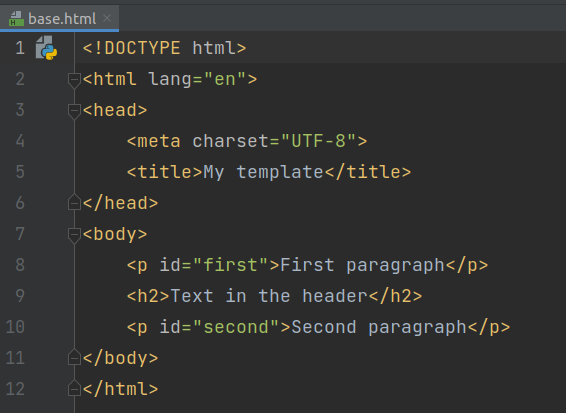
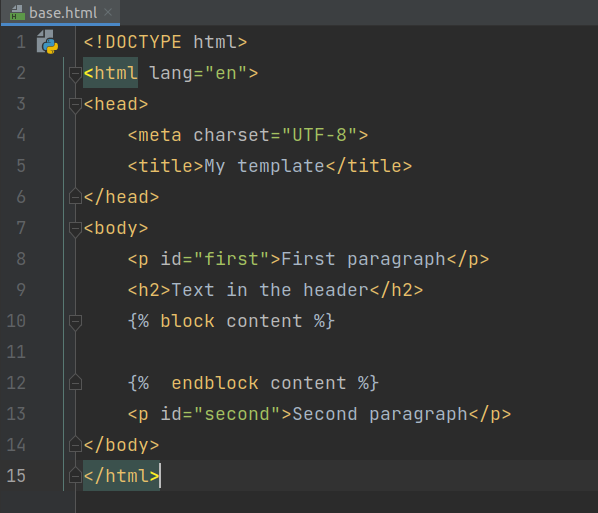
Solutions for exercise #3 - views and templating in Django

diff --git a/django-framework-exercises/views-and-templating/src/README.md b/django-framework-exercises/views-and-templating/src/README.md
@@ -1,46 +1,70 @@
 # Views and templating in Django  
 
 ## Tasks
-1. So far we have created virtual environment inside 'django-exercise' folder and we have project named 'mysite' with app named 'myapp'. App handles two urls (both in  app's ```urls.py``` file ), and each url allows user for calling specific view (from ```views.py``` file). Both views return simple response object (HttpRespons or JsonResponse) with hardcoded values.  
-   **Don't forget to activate you virtualenv!**
+1. So far we have created virtual environment inside 'django-exercise' folder and we have project named 'mysite' with app named 'myapp'.  
+*  App handles two urls (both in  app's ```urls.py``` file ), and each url allows user for calling specific view (from ```views.py``` file).  
+*  Both views return simple response object (HttpRespons or JsonResponse) with hardcoded values.  
+
+*  **Don't forget to activate you virtualenv!**  
 
 2. Create app-level template ```base.html``` in ```myapp/templates/myapp/``` directory.  
-You can use elements from [ready-to-use](https://startbootstrap.com/template/bare)  templates or just create HTML file with [basic](https://developer.mozilla.org/en-US/docs/Learn/HTML/Introduction_to_HTML/Document_and_website_structure) structure.   
-For now use only HTML. Add some paragraphs  and headers to ```body``` section, for example:  
+*  You can use elements from [ready-to-use](https://startbootstrap.com/template/bare)  templates or just create HTML file with [basic](https://developer.mozilla.org/en-US/docs/Learn/HTML/Introduction_to_HTML/Document_and_website_structure) structure.   
+*  For now use only HTML. Add some paragraphs  and headers to ```body``` section and empty [block](https://docs.djangoproject.com/en/3.2/ref/templates/builtins/#block) for overriding by child templates (name this block 'content'):  
 
    ![ex3-1](../../../django-framework-exercises/screenshots/ex3-1.png)  
 CSS and JavaScript files will be added later. 
-- at this moment structure of folders and files in folder 'exercises-django' should look as follows:  
+* at this moment structure of folders and files in folder 'exercises-django' should look as follows:  
 ![ex3-2](../../../django-framework-exercises/screenshots/ex3-2.png)
 
-3. Create next app-level template ```about.html``` in the same ```myapp/templates/myapp/``` directory by extending ```base.html``` template.  
-Hint: use [extends](https://docs.djangoproject.com/en/3.2/ref/templates/builtins/#extends) template tag:
+3. Create next app-level template ```about.html``` in the same ```myapp/templates/myapp/``` directory. Use template  extending of ```base.html``` template. Add few HTML tags inside 'content' block.  
+Hint: use [extends](https://docs.djangoproject.com/en/3.2/ref/templates/builtins/#extends) template tag.  
+
+   ![ex3-3](../../../django-framework-exercises/screenshots/ex3-3.png)
 
 4. In ```views.py``` file of your ```myapp``` app:  
 * add another  function based view (named for example ```base_view```), that uses [render](https://docs.djangoproject.com/en/3.2/topics/http/shortcuts/#render) function with previously created template ```base.html```,
-* add class based view (named for example ```about_view```), that uses previously created template```about.html```: 
+* add class based view (named for example ```AboutView```), that uses previously created template ```about.html```,
+*  Hint: you can use [TemplateView](https://docs.djangoproject.com/en/3.2/topics/class-based-views/).
 
-   ![ex2-3](../../../django-framework-exercises/screenshots/ex2-3.png)
+   ![ex3-4](../../../django-framework-exercises/screenshots/ex3-4.png)
 
-5. Update your app-level ```urls.py```. Import created views and create two different paths (for both views, for example 'hello/' and 'json/'):    
-   ![ex2-4](../../../django-framework-exercises/screenshots/ex2-4.png)
+5. Update your app-level ```urls.py```. Import created views and create two different paths (for both views, for example '' and 'about/'):    
+   ![ex3-5](../../../django-framework-exercises/screenshots/ex3-5.png)
 
-6. In your project (mysite) folder update ```urls.py``` file by adding information about urls from your app. Use ```include()``` function:  
-   ![ex2-5](../../../django-framework-exercises/screenshots/ex2-5.png)
-
-
-7. Run development server:  
+6. Run development server to check if recently added added urls work:  
 ```python manage.py runserver```  
 
-8. Open link ```http://127.0.0.1:8000/hello/``` in the browser. After URL of development server type path of your first URL from 'myapp/urls.py' (we have 'hello/' in this example). It works if you see the value returned in the first view:
+*  Check links ```http://127.0.0.1:8000/``` and ```http://127.0.0.1:8000/about/``` in the browser.   You should see something similar to following picture:
 
-   ![ex2-6](../../../django-framework-exercises/screenshots/ex2-6.png)  
+   ![ex3-6](../../../django-framework-exercises/screenshots/ex3-6.png)  
 
-9. Open link ```http://127.0.0.1:8000/json/``` in the browser. After URL of development server type path of your second URL from 'myapp/urls.py' (we have 'json/' in this example). It works if you see the value returned in the second view (in JSON format):
+7. In the ```base.html``` template add links to other created pages using [url](https://docs.djangoproject.com/en/3.2/ref/templates/builtins/#url) template tag:
 
-   ![ex2-7](../../../django-framework-exercises/screenshots/ex2-7.png) 
+   ![ex3-7](../../../django-framework-exercises/screenshots/ex3-7.png) 
+
+*  the page could look like this:  
+   ![ex3-8](../../../django-framework-exercises/screenshots/ex3-8.png) 
+
+8. Adding static files to project:
+*  create folder ```static``` at the project level and create two folders inside it: ```css``` and ```js```.  
+In ```css``` folder create ```base.css``` file and in ```js``` folder create ```base.js``` file:  
+![ex3-9](../../../django-framework-exercises/screenshots/ex3-9.png) 
+
+* add information about ```static``` folder to setting [STATICFILES_DIRS](https://docs.djangoproject.com/en/3.2/ref/settings/#std:setting-STATICFILES_DIRS) in ```settings.py``` configuration file.  
+![ex3-9a](../../../django-framework-exercises/screenshots/ex3-9a.png) 
+
+  Some useful hints could be found [here](https://adamj.eu/tech/2020/03/16/use-pathlib-in-your-django-project/).
+
+* in ```base.css``` add rule for changing color of all (or selected) paragraphs to red. 
+![ex3-10](../../../django-framework-exercises/screenshots/ex3-10.png) 
+
+* in ```base.js``` add rule for changing color of all (or selected) specific headers to green. 
+![ex3-11](../../../django-framework-exercises/screenshots/ex3-11.png) 
+
+* if everything works fine, you should see effects of your changes:
+![ex3-12](../../../django-framework-exercises/screenshots/ex3-12.png) 
 
 ## Input/Output:
 ```
-Working urls with proper views returning HttpResponse and JsonResponse objects.
+Working urls, views and templates with static (CSS and JavaScript) files.
 ```
